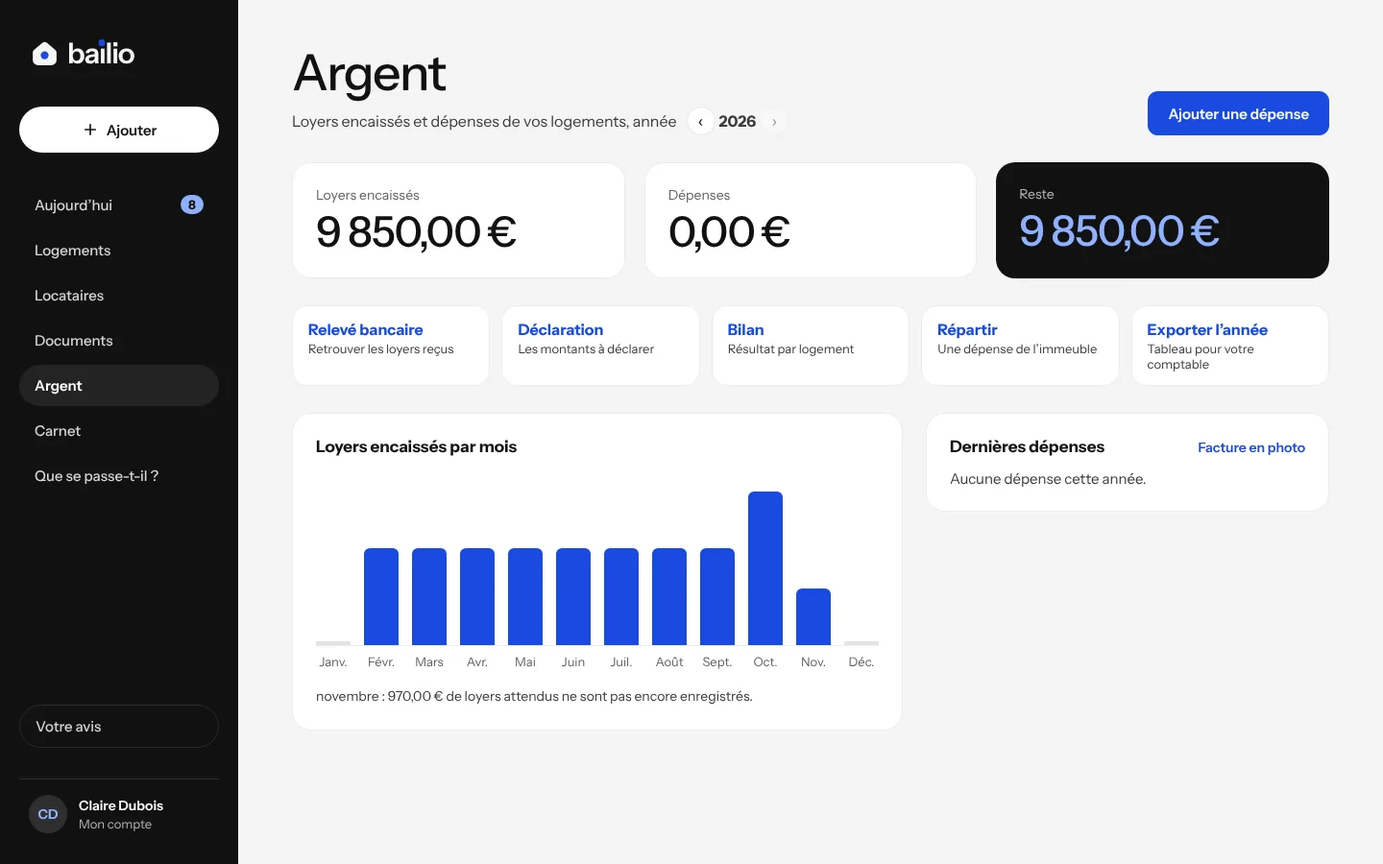
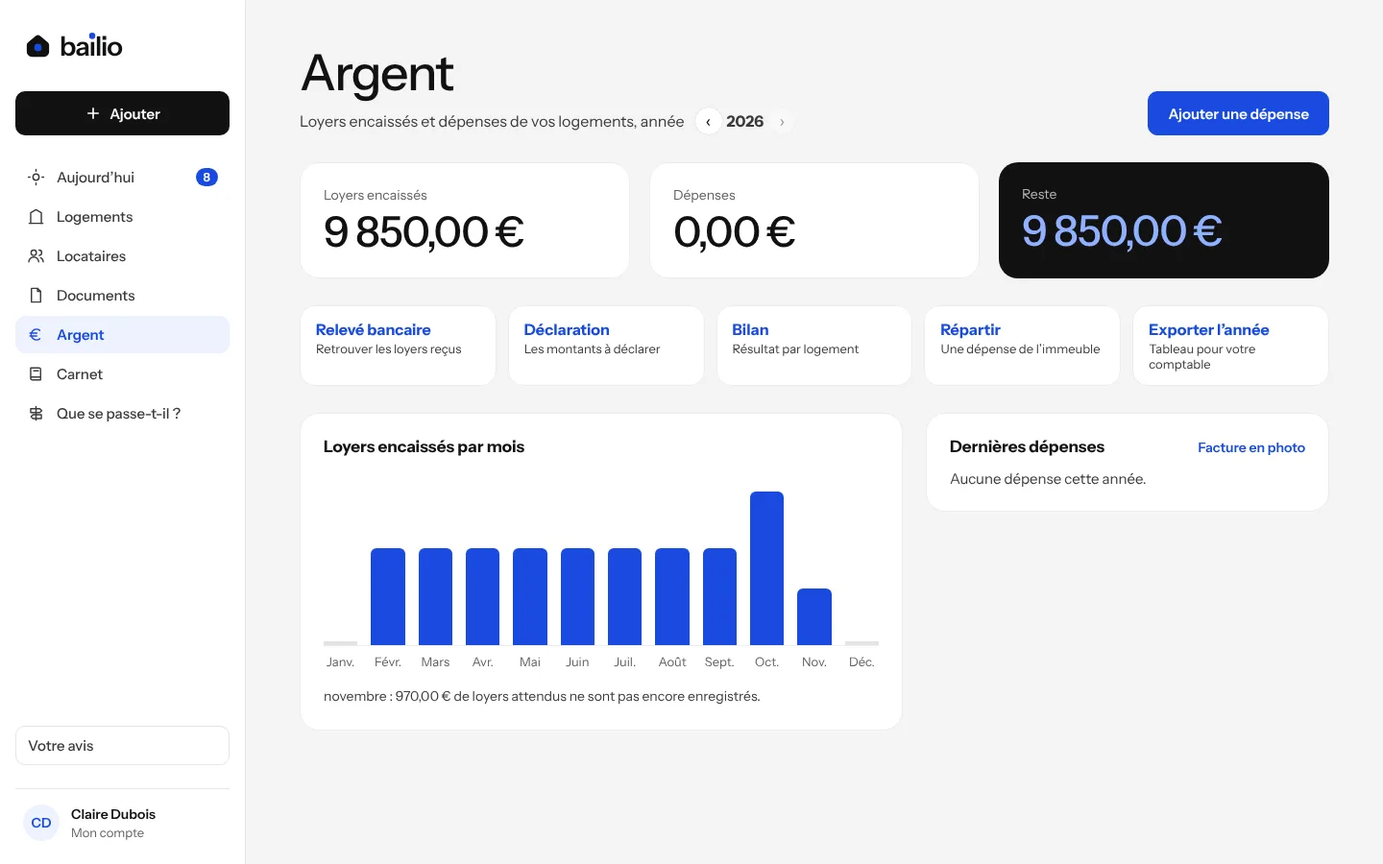
Espace du propriétaire : menu latéral clair à icônes, tuiles à pastilles, captures refaites
Claude-Session: https://claude.ai/code/session_01EKVDPdaB2g9b96r4iNnge6

diff --git a/client/src/content/fonctionnalites.ts b/client/src/content/fonctionnalites.ts
@@ -67,7 +67,7 @@ export const FEATURES: Feature[] = [
     lead: 'Notez le loyer reçu, ou déposez le relevé de votre banque : Bailio reconnaît les virements de vos locataires et envoie chaque quittance tout de suite.',
     img: 'quittances',
     alt: 'Partie « Loyers et quittances » d’un bail dans Bailio : loyer du mois payé, envoi automatique des quittances et loyers des mois passés.',
-    spot: { x: 22.8, y: 43.5, w: 43.5, h: 8.7, label: 'La quittance part dès que le loyer est noté reçu' },
+    spot: { x: 23.4, y: 43.1, w: 42.9, h: 8.6, label: 'La quittance part dès que le loyer est noté reçu' },
     steps: [
       { title: 'Un clic sur « Loyer reçu »', text: 'La quittance est faite, rangée avec le bail et envoyée par email si votre locataire l’a accepté. Un paiement partiel donne un reçu, jamais une quittance.' },
       { title: 'Votre relevé bancaire, rapproché', text: 'Téléchargez le fichier CSV ou OFX de votre banque et déposez-le : les loyers attendus sont retrouvés, vous cochez, c’est enregistré. Le fichier n’est pas conservé.', img: 'releve', alt: 'Page « Vos loyers reçus, en un clic » de Bailio : comment télécharger puis déposer le relevé bancaire.' },
@@ -92,7 +92,7 @@ export const FEATURES: Feature[] = [
     lead: 'Activez les relances une fois. Si le loyer n’est pas noté reçu, votre locataire reçoit une relance amiable, puis un second rappel, puis une mise en demeure. Vous recevez une copie de chaque envoi.',
     img: 'relances',
     alt: 'Bail avec un loyer en retard de 3 jours dans Bailio et l’interrupteur « Relancer automatiquement un loyer impayé » activé.',
-    spot: { x: 22.8, y: 66.2, w: 43.5, h: 11, label: 'Relance à J+3, second rappel à J+8, mise en demeure à J+15' },
+    spot: { x: 23.4, y: 65.7, w: 42.9, h: 10.8, label: 'Relance à J+3, second rappel à J+8, mise en demeure à J+15' },
     steps: [
       { title: 'Vous choisissez les jours', text: 'Par défaut 3, 8 et 15 jours après l’échéance, réglables. Chaque lettre reprend toute la somme due et les mois concernés.' },
       { title: 'Tout s’arrête dès le paiement', text: 'Le loyer est noté reçu, à la main ou depuis le relevé : plus aucune relance ne part. Une étape n’est jamais envoyée deux fois.' },
@@ -141,7 +141,7 @@ export const FEATURES: Feature[] = [
     lead: 'Bailio écrit les mentions obligatoires de l’annonce et vous donne un lien de candidature. Les candidats déposent leur dossier, vous comparez en un coup d’œil.',
     img: 'candidats',
     alt: 'Liste des candidats dans Bailio : dossier solide ou à compléter, avec les raisons.',
-    spot: { x: 21.1, y: 13.3, w: 50.4, h: 39.7, label: 'Classés sur les ressources, la garantie et les pièces' },
+    spot: { x: 21.7, y: 13.3, w: 49.9, h: 39.5, label: 'Classés sur les ressources, la garantie et les pièces' },
     steps: [
       { title: 'L’annonce, conforme', text: 'Loyer charges comprises, dépôt, surface, classes énergie et dépenses estimées : ajoutés tout seuls. Le texte se copie sur le site de votre choix.', img: 'annonce', alt: 'Page « Votre annonce » de Bailio : loyer, charges et conditions, avec l’aperçu de l’annonce.' },
       { title: 'Seulement les pièces autorisées', text: 'Vous choisissez dans la liste officielle. Chaque justificatif reçoit un filigrane « uniquement pour louer ce logement », contre la revente des dossiers.' },
@@ -187,7 +187,7 @@ export const FEATURES: Feature[] = [
     lead: 'Plus besoin de noter chaque virement à la main. Vous déposez le relevé du compte qui reçoit vos loyers, Bailio propose les loyers qu’il reconnaît, vous validez.',
     img: 'releve',
     alt: 'Page « Vos loyers reçus, en un clic » de Bailio : comment télécharger le relevé de sa banque puis le déposer, au format CSV ou OFX.',
-    spot: { x: 21.1, y: 44.9, w: 75, h: 22, label: 'CSV ou OFX, lu sur le serveur et jamais enregistré' },
+    spot: { x: 21.7, y: 47.4, w: 74.4, h: 21.6, label: 'CSV ou OFX, lu sur le serveur et jamais enregistré' },
     steps: [
       { title: 'Vous téléchargez le relevé', text: 'Depuis l’espace en ligne de votre banque, au format CSV ou OFX, sur le dernier mois ou plus. Bailio vous indique où le trouver.' },
       { title: 'Les loyers sont rapprochés', text: 'Un virement est associé à un loyer attendu quand le montant est juste à 1 € près, qu’il tombe de 20 jours avant à 45 jours après l’échéance, et que le libellé porte le nom du locataire ou de son garant.', img: 'quittances', alt: 'Partie « Loyers et quittances » d’un bail dans Bailio : loyer du mois payé et envoi automatique des quittances.' },
@@ -213,7 +213,7 @@ export const FEATURES: Feature[] = [
     lead: 'Chaque mois, Bailio additionne les loyers de tous vos logements, retire les crédits et les dépenses, et vous montre ce qu’il vous reste avant impôt. Ce qui demande votre attention vient en premier.',
     img: 'patrimoine',
     alt: 'Tableau de bord de Bailio : loyers et charges attendus chaque mois, ce qu’il reste, les logements à surveiller et la liste des trois logements.',
-    spot: { x: 21.1, y: 22.7, w: 75, h: 16.4, label: 'Loyers attendus et ce qu’il vous reste, chaque mois avant impôt' },
+    spot: { x: 21.7, y: 22.7, w: 74.4, h: 16.4, label: 'Loyers attendus et ce qu’il vous reste, chaque mois avant impôt' },
     steps: [
       { title: 'Un tableau de bord pour tout le patrimoine', text: 'Loyers et charges attendus, crédits et assurances, dépenses moyennes des 12 derniers mois, reste avant impôt, et rendement brut quand le prix d’achat est connu.' },
       { title: '« À surveiller », du plus urgent au moins urgent', text: 'Loyer en retard, logement interdit à la location, logement libre, diagnostic à refaire, interdiction liée au DPE dans les 4 ans, bail qui arrive à échéance.', img: 'logements', alt: 'Page « Vos logements » de Bailio : trois logements loués, un loyer en retard, et le lien vers le tableau de bord.' },
@@ -236,10 +236,10 @@ export const FEATURES: Feature[] = [
 
 /** Vitrine de /fonctionnalites : quatre écrans, une zone mise en avant chacun. */
 export const SHOWCASE: Array<{ id: string; tab: string; img: string; alt: string; spot: Spot }> = [
-  { id: 'jour', tab: 'Aujourd’hui', img: 'today', alt: 'Écran « Aujourd’hui » de Bailio : un loyer en retard avec la relance prête, une fin de bail, l’état des lieux à faire et les prochaines échéances.', spot: { x: 21.1, y: 36.8, w: 46.4, h: 22.2, label: 'Un loyer en retard : la relance est déjà rédigée' } },
-  { id: 'loyers', tab: 'Loyers', img: 'quittances', alt: 'Partie « Loyers et quittances » d’un bail : loyer du mois payé, envoi automatique des quittances et loyers des mois passés.', spot: { x: 22.8, y: 43.5, w: 43.5, h: 8.7, label: 'La quittance part dès que le loyer est noté reçu' } },
-  { id: 'relances', tab: 'Relances', img: 'relances', alt: 'Bail avec un loyer en retard de 3 jours et les relances automatiques activées.', spot: { x: 22.8, y: 66.2, w: 43.5, h: 11, label: 'Relance à J+3, second rappel à J+8, mise en demeure à J+15' } },
-  { id: 'bord', tab: 'Tableau de bord', img: 'patrimoine', alt: 'Tableau de bord de Bailio : loyers attendus chaque mois, ce qu’il reste, logements à surveiller.', spot: { x: 21.1, y: 42.8, w: 75, h: 16.9, label: 'Le loyer en retard et le bail à renouveler, en tête' } },
+  { id: 'jour', tab: 'Aujourd’hui', img: 'today', alt: 'Écran « Aujourd’hui » de Bailio : un loyer en retard avec la relance prête, une fin de bail, l’état des lieux à faire et les prochaines échéances.', spot: { x: 21.7, y: 38.7, w: 45.8, h: 22.1, label: 'Un loyer en retard : la relance est déjà rédigée' } },
+  { id: 'loyers', tab: 'Loyers', img: 'quittances', alt: 'Partie « Loyers et quittances » d’un bail : loyer du mois payé, envoi automatique des quittances et loyers des mois passés.', spot: { x: 23.4, y: 43.1, w: 42.9, h: 8.6, label: 'La quittance part dès que le loyer est noté reçu' } },
+  { id: 'relances', tab: 'Relances', img: 'relances', alt: 'Bail avec un loyer en retard de 3 jours et les relances automatiques activées.', spot: { x: 23.4, y: 65.7, w: 42.9, h: 10.8, label: 'Relance à J+3, second rappel à J+8, mise en demeure à J+15' } },
+  { id: 'bord', tab: 'Tableau de bord', img: 'patrimoine', alt: 'Tableau de bord de Bailio : loyers attendus chaque mois, ce qu’il reste, logements à surveiller.', spot: { x: 21.7, y: 42.6, w: 74.4, h: 16.6, label: 'Le loyer en retard et le bail à renouveler, en tête' } },
 ]
 
 /** Sections numérotées de /fonctionnalites : une capture, ce que Bailio fait, les pages détaillées. */

diff --git a/client/src/components/AppShell.tsx b/client/src/components/AppShell.tsx
@@ -92,36 +92,38 @@ function Sidebar({ taskCount, onAdd, onFeedback }: { taskCount: number | null; o
   const { user } = useAuth()
   const name = [user?.firstName, user?.lastName].filter(Boolean).join(' ') || user?.email || ''
   return (
-    <nav aria-label="Navigation principale" className="sidebar" style={{ width: 248, flexShrink: 0, background: BAI.night, display: 'flex', flexDirection: 'column', gap: 32, padding: '32px 20px', position: 'sticky', top: 0, height: '100vh', boxSizing: 'border-box' }}>
-      <div style={{ padding: '0 10px' }}>
-        <Logo size={30} onDark to="/espace" />
+    <nav aria-label="Navigation principale" className="sidebar" style={{ width: 256, flexShrink: 0, background: BAI.surface, borderRight: `1px solid ${BAI.border}`, display: 'flex', flexDirection: 'column', gap: 24, padding: '24px 16px', position: 'sticky', top: 0, height: '100vh', boxSizing: 'border-box' }}>
+      <div style={{ padding: '0 8px' }}>
+        <Logo size={28} to="/espace" />
       </div>
-      <button type="button" onClick={onAdd} style={{ display: 'flex', alignItems: 'center', justifyContent: 'center', gap: 8, height: 48, borderRadius: 999, background: BAI.surface, color: BAI.night, border: 'none', fontFamily: 'inherit', fontWeight: 600, fontSize: 15, cursor: 'pointer' }}>
+      <button type="button" className="side-add" onClick={onAdd} style={{ display: 'flex', alignItems: 'center', justifyContent: 'center', gap: 8, height: 46, borderRadius: BAI.radiusBtn, background: BAI.night, color: BAI.surface, border: 'none', fontFamily: 'inherit', fontWeight: 600, fontSize: 15, cursor: 'pointer' }}>
         <Plus />
         Ajouter
       </button>
-      <div style={{ display: 'flex', flexDirection: 'column', gap: 4 }}>
+      <div style={{ display: 'flex', flexDirection: 'column', gap: 2 }}>
         {NAV.map((n) => (
           <NavLink
             key={n.to}
             to={n.to}
             end={n.end}
-            style={({ isActive }) => ({ display: 'flex', alignItems: 'center', justifyContent: 'space-between', padding: '12px 16px', borderRadius: 999, textDecoration: 'none', fontSize: 15, fontWeight: isActive ? 600 : 500, background: isActive ? BAI.nightActive : 'transparent', color: isActive ? BAI.surface : BAI.onDarkNav })}
+            className="side-link"
+            style={({ isActive }) => ({ display: 'flex', alignItems: 'center', gap: 12, padding: '10px 12px', borderRadius: 10, textDecoration: 'none', fontSize: 15, fontWeight: isActive ? 600 : 500, background: isActive ? BAI.ownerLight : 'transparent', color: isActive ? BAI.owner : BAI.inkMid })}
           >
-            <span>{n.label}</span>
-            {n.end && taskCount ? <span style={{ background: BAI.accent, color: BAI.night, fontSize: 13, fontWeight: 700, padding: '2px 8px', borderRadius: 999 }}>{taskCount}</span> : null}
+            <n.icon size={19} />
+            <span style={{ flex: 1 }}>{n.label}</span>
+            {n.end && taskCount ? <span style={{ background: BAI.owner, color: BAI.surface, fontSize: 12.5, fontWeight: 600, padding: '2px 8px', borderRadius: 999 }}>{taskCount}</span> : null}
           </NavLink>
         ))}
       </div>
       <div style={{ flexGrow: 1 }} />
-      <button type="button" onClick={onFeedback} style={{ display: 'flex', alignItems: 'center', padding: '12px 16px', borderRadius: 999, background: 'transparent', border: `1px solid ${BAI.nightLine}`, color: BAI.onDarkNav, fontFamily: 'inherit', fontSize: 15, fontWeight: 500, cursor: 'pointer', textAlign: 'left' }}>
+      <button type="button" className="side-link" onClick={onFeedback} style={{ display: 'flex', alignItems: 'center', padding: '10px 12px', borderRadius: 10, background: 'transparent', border: `1px solid ${BAI.border}`, color: BAI.inkMid, fontFamily: 'inherit', fontSize: 15, fontWeight: 500, cursor: 'pointer', textAlign: 'left' }}>
         Votre avis
       </button>
-      <Link to="/espace/compte" style={{ display: 'flex', alignItems: 'center', gap: 12, padding: '16px 10px 0', borderTop: `1px solid ${BAI.nightSoft}`, textDecoration: 'none' }}>
-        <span style={{ width: 40, height: 40, borderRadius: 20, background: BAI.nightSoft, color: BAI.accent, display: 'flex', alignItems: 'center', justifyContent: 'center', fontWeight: 700, fontSize: 14, flexShrink: 0 }}>{initialsOf(name)}</span>
+      <Link to="/espace/compte" style={{ display: 'flex', alignItems: 'center', gap: 12, padding: '16px 8px 0', borderTop: `1px solid ${BAI.border}`, textDecoration: 'none' }}>
+        <span style={{ width: 38, height: 38, borderRadius: 19, background: BAI.ownerLight, color: BAI.owner, display: 'flex', alignItems: 'center', justifyContent: 'center', fontWeight: 600, fontSize: 14, flexShrink: 0 }}>{initialsOf(name)}</span>
         <span style={{ display: 'flex', flexDirection: 'column', gap: 2, minWidth: 0 }}>
-          <span style={{ color: BAI.surface, fontSize: 14, fontWeight: 600, overflow: 'hidden', textOverflow: 'ellipsis', whiteSpace: 'nowrap' }}>{name}</span>
-          <span style={{ color: BAI.onDarkMuted, fontSize: 13 }}>Mon compte</span>
+          <span style={{ color: BAI.ink, fontSize: 14, fontWeight: 600, overflow: 'hidden', textOverflow: 'ellipsis', whiteSpace: 'nowrap' }}>{name}</span>
+          <span style={{ color: BAI.inkSoft, fontSize: 13 }}>Mon compte</span>
         </span>
       </Link>
     </nav>

diff --git a/client/src/pages/Home.tsx b/client/src/pages/Home.tsx
@@ -138,12 +138,12 @@ function Check() {
 
 /** Visite animée du produit : vraies captures de l'application sur ordinateur (compte d'exemple), qui défilent seules. */
 const TOUR: TourStep[] = [
-  { id: 'decrire', tab: 'Décrire', img: 'tunnel', path: 'bailio.fr/commencer', alt: 'Écran « Votre logement est… » avec deux choix, Vide ou Meublé, étape 1 sur 5', spot: { x: 37.9, y: 28.3, w: 50, h: 26.1, label: 'Une question à la fois : Bailio remplit le reste' } },
-  { id: 'bail', tab: 'Le bail', img: 'bail', alt: 'Page d’un bail signé : locataire, adresse, dates, loyers reçus avec leurs quittances, et les actions du bail', spot: { x: 21.1, y: 8.5, w: 40, h: 11, label: 'Le contrat type officiel, signé en ligne' } },
-  { id: 'jour', tab: 'Aujourd’hui', img: 'today', alt: 'Écran « Bonjour Claire » : un loyer en retard avec la relance déjà rédigée, une fin de bail, l’état des lieux à faire et les prochaines échéances', spot: { x: 21.1, y: 36.8, w: 46.4, h: 22.2, label: 'Un loyer en retard : la relance est déjà rédigée' } },
-  { id: 'mois', tab: 'Chaque mois', img: 'relances', alt: 'Bail avec un loyer en retard : quittance par email et relance automatique d’un loyer impayé activées', spot: { x: 22.8, y: 66.2, w: 43.5, h: 11, label: 'Relance à J+3, second rappel à J+8, mise en demeure à J+15' } },
-  { id: 'candidats', tab: 'Candidats', img: 'candidats', alt: 'Liste des candidats : dossier solide ou à compléter, avec les raisons', spot: { x: 21.1, y: 13.3, w: 50.4, h: 39.7, label: 'Classés sur les ressources, la garantie et les pièces' } },
-  { id: 'bord', tab: 'Tableau de bord', img: 'patrimoine', alt: 'Tableau de bord : loyers attendus chaque mois, ce qu’il reste, logements à surveiller', spot: { x: 21.1, y: 42.8, w: 75, h: 16.9, label: 'Le loyer en retard et le bail à renouveler, en tête' } },
+  { id: 'decrire', tab: 'Décrire', img: 'tunnel', path: 'bailio.fr/commencer', alt: 'Écran « Votre logement est… » avec deux choix, Vide ou Meublé, étape 1 sur 5', spot: { x: 37.9, y: 28.3, w: 50, h: 25.6, label: 'Une question à la fois : Bailio remplit le reste' } },
+  { id: 'bail', tab: 'Le bail', img: 'bail', alt: 'Page d’un bail signé : locataire, adresse, dates, loyers reçus avec leurs quittances, et les actions du bail', spot: { x: 21.7, y: 8.5, w: 40, h: 11, label: 'Le contrat type officiel, signé en ligne' } },
+  { id: 'jour', tab: 'Aujourd’hui', img: 'today', alt: 'Écran « Bonjour Claire » : un loyer en retard avec la relance déjà rédigée, une fin de bail, l’état des lieux à faire et les prochaines échéances', spot: { x: 21.7, y: 38.7, w: 45.8, h: 22.1, label: 'Un loyer en retard : la relance est déjà rédigée' } },
+  { id: 'mois', tab: 'Chaque mois', img: 'relances', alt: 'Bail avec un loyer en retard : quittance par email et relance automatique d’un loyer impayé activées', spot: { x: 23.4, y: 65.7, w: 42.9, h: 10.8, label: 'Relance à J+3, second rappel à J+8, mise en demeure à J+15' } },
+  { id: 'candidats', tab: 'Candidats', img: 'candidats', alt: 'Liste des candidats : dossier solide ou à compléter, avec les raisons', spot: { x: 21.7, y: 13.3, w: 49.9, h: 39.5, label: 'Classés sur les ressources, la garantie et les pièces' } },
+  { id: 'bord', tab: 'Tableau de bord', img: 'patrimoine', alt: 'Tableau de bord : loyers attendus chaque mois, ce qu’il reste, logements à surveiller', spot: { x: 21.7, y: 42.6, w: 74.4, h: 16.6, label: 'Le loyer en retard et le bail à renouveler, en tête' } },
 ]
 
 /** Démarches d'un logement loué sur une année, que Bailio prépare ; la déclaration des revenus compte une fois. */

diff --git a/marketing/videos/demo/demo.html b/marketing/videos/demo/demo.html
@@ -24,15 +24,15 @@ const LOGO = (size, house = '#111111') => `<svg width="${size}" height="${size}"
 const SCREEN = 7
 // x, y, w, h : zone utile en % de la capture (1440 × 900)
 const STEPS = [
-  { img: 'today', url: 'bailio.fr/espace', cap: 'Chaque matin, ce qui est à faire, déjà préparé.', spot: { x: 21.1, y: 36.8, w: 46.4, h: 22.2 } },
-  { img: 'tunnel', url: 'bailio.fr/commencer', cap: 'Votre bail en quelques questions, sur le contrat type officiel.', spot: { x: 37.9, y: 28.3, w: 50, h: 26.1 } },
-  { img: 'bail', url: 'bailio.fr/espace/baux', cap: 'Vérifié avant la signature, signé en ligne.', spot: { x: 21.1, y: 8.5, w: 40, h: 11 } },
-  { img: 'quittances', url: 'bailio.fr/espace/baux', cap: 'Le loyer arrive : la quittance part toute seule.', spot: { x: 22.8, y: 43.5, w: 43.5, h: 8.7 } },
-  { img: 'relances', url: 'bailio.fr/espace/baux', cap: 'Un retard ? Relances à J+3, J+8 et J+15.', spot: { x: 22.8, y: 66.2, w: 43.5, h: 11 } },
+  { img: 'today', url: 'bailio.fr/espace', cap: 'Chaque matin, ce qui est à faire, déjà préparé.', spot: { x: 21.7, y: 38.7, w: 45.8, h: 22.1 } },
+  { img: 'tunnel', url: 'bailio.fr/commencer', cap: 'Votre bail en quelques questions, sur le contrat type officiel.', spot: { x: 37.9, y: 28.3, w: 50, h: 25.6 } },
+  { img: 'bail', url: 'bailio.fr/espace/baux', cap: 'Vérifié avant la signature, signé en ligne.', spot: { x: 21.7, y: 8.5, w: 40, h: 11 } },
+  { img: 'quittances', url: 'bailio.fr/espace/baux', cap: 'Le loyer arrive : la quittance part toute seule.', spot: { x: 23.4, y: 43.1, w: 42.9, h: 8.6 } },
+  { img: 'relances', url: 'bailio.fr/espace/baux', cap: 'Un retard ? Relances à J+3, J+8 et J+15.', spot: { x: 23.4, y: 65.7, w: 42.9, h: 10.8 } },
   { img: 'edl', url: 'bailio.fr/edl', cap: 'L’état des lieux sur téléphone, pièce par pièce.', spot: { x: 31.9, y: 20.3, w: 36.1, h: 18.8 } },
-  { img: 'candidats', url: 'bailio.fr/espace/logements', cap: 'Les candidats classés, leurs pièces protégées.', spot: { x: 21.1, y: 13.3, w: 50.4, h: 39.7 } },
-  { img: 'impots', url: 'bailio.fr/espace/argent/declaration', cap: 'Votre déclaration : les cases à recopier.', spot: { x: 21.1, y: 36.7, w: 75, h: 35.5 } },
-  { img: 'patrimoine', url: 'bailio.fr/espace/patrimoine', cap: 'Tous vos logements, un seul tableau de bord.', spot: { x: 21.1, y: 22.7, w: 75, h: 16.4 } },
+  { img: 'candidats', url: 'bailio.fr/espace/logements', cap: 'Les candidats classés, leurs pièces protégées.', spot: { x: 21.7, y: 13.3, w: 49.9, h: 39.5 } },
+  { img: 'impots', url: 'bailio.fr/espace/argent/declaration', cap: 'Votre déclaration : les cases à recopier.', spot: { x: 21.7, y: 36.7, w: 74.4, h: 35.5 } },
+  { img: 'patrimoine', url: 'bailio.fr/espace/patrimoine', cap: 'Tous vos logements, un seul tableau de bord.', spot: { x: 21.7, y: 22.7, w: 74.4, h: 16.4 } },
 ]
 const INTRO = 4.5, OUTRO = 6
 window.DURATION = INTRO + STEPS.length * SCREEN + OUTRO

diff --git a/client/src/pages/espace/Aujourdhui.tsx b/client/src/pages/espace/Aujourdhui.tsx
@@ -4,7 +4,7 @@ import { BAI } from '../../constants/bailio-tokens'
 import { AppShell, useSpace } from '../../components/AppShell'
 import { display } from '../../components/ui'
 import { Btn, Card, LoadError, Loader, Pill, TextLink, toneColor, useLoad, useToast, useConfirm } from '../../components/kit'
-import { Camera, Check, Euro, Home, Mail, Pencil, Plus, Upload } from '../../components/Icons'
+import { Camera, Check, Euro, Home, Mail, Pencil, People, Plus, Upload } from '../../components/Icons'
 import { Onboarding } from '../../components/Onboarding'
 import { api } from '../../lib/api'
 import { dayTitle, eurosCents, monthName, plural } from '../../lib/format'
@@ -176,10 +176,15 @@ function Tiles({ data }: { data: TodayView }) {
   return (
     <nav aria-label="Chiffres du mois" className="today-tiles">
       {tiles.map((t) => (
-        <Link key={t.key} to={t.to} className="tap today-tile" style={{ textDecoration: 'none', color: BAI.ink, background: BAI.surface, border: `1px solid ${BAI.divider}`, borderRadius: 18, padding: '16px 20px', display: 'flex', flexDirection: 'column', gap: 2, minWidth: 0 }}>
-          <span style={{ fontSize: 13, color: BAI.inkSoft }}>{t.label}</span>
-          <span style={{ fontSize: 'clamp(19px, 2.4vw, 24px)', fontWeight: 700, color: t.tone ? toneColor(t.tone) : BAI.ink, overflowWrap: 'anywhere' }}>{t.value}</span>
-          {t.sub ? <span style={{ fontSize: 13, color: BAI.inkMid }}>{t.sub}</span> : null}
+        <Link key={t.key} to={t.to} className="tap today-tile" style={{ textDecoration: 'none', color: BAI.ink, background: BAI.surface, border: `1px solid ${BAI.border}`, borderRadius: 16, padding: '16px 18px', display: 'flex', alignItems: 'flex-start', gap: 14, minWidth: 0 }}>
+          <span aria-hidden style={{ width: 40, height: 40, borderRadius: 12, flexShrink: 0, display: 'flex', alignItems: 'center', justifyContent: 'center', background: t.tone === 'error' ? BAI.errorLight : t.tone === 'green' ? BAI.greenLight : BAI.ownerLight, color: t.tone === 'error' ? BAI.error : t.tone === 'green' ? BAI.green : BAI.owner }}>
+            {t.key === 'candidates' ? <People size={20} /> : t.key === 'deposit' ? <Home size={20} /> : <Euro size={20} />}
+          </span>
+          <span style={{ display: 'flex', flexDirection: 'column', gap: 2, minWidth: 0 }}>
+            <span style={{ fontSize: 13, color: BAI.inkSoft }}>{t.label}</span>
+            <span style={{ fontSize: 'clamp(18px, 2.2vw, 22px)', fontWeight: 600, letterSpacing: '-0.02em', color: t.tone ? toneColor(t.tone) : BAI.ink, overflowWrap: 'anywhere' }}>{t.value}</span>
+            {t.sub ? <span style={{ fontSize: 13, color: BAI.inkMid }}>{t.sub}</span> : null}
+          </span>
         </Link>
       ))}
     </nav>

diff --git a/client/src/styles.css b/client/src/styles.css
@@ -196,7 +196,7 @@ button:not(:disabled):active { transform: scale(.98); }
 }
 
 /* « Aujourd'hui » : tuiles du mois, puis actions à gauche et raccourcis + agenda à droite dès 1024 px. */
-.today-tiles { display: grid; grid-template-columns: repeat(auto-fit, minmax(150px, 1fr)); gap: 14px; }
+.today-tiles { display: grid; grid-template-columns: repeat(auto-fit, minmax(210px, 1fr)); gap: 14px; }
 .today-grid { display: flex; flex-direction: column; gap: 24px; }
 .today-main { display: flex; flex-direction: column; min-width: 0; }
 .today-side { display: flex; flex-direction: column; gap: 20px; min-width: 0; }
@@ -207,3 +207,7 @@ button:not(:disabled):active { transform: scale(.98); }
 @media (max-width: 339px) {
   .today-tiles { grid-template-columns: minmax(0, 1fr); }
 }
+
+/* Menu latéral clair de l'espace : survol discret */
+.side-link:not(.active):hover { background: #f4f4f4 !important; }
+.side-add:hover { background: #2e2e2e !important; }

diff --git a/CLAUDE.md b/CLAUDE.md
@@ -32,6 +32,7 @@
 - Toute couleur vient de `BAI` (`client/src/constants/bailio-tokens.ts`). Aucune couleur hexadécimale dans les composants.
 - Titres et texte : Instrument Sans (`@fontsource-variable/instrument-sans`, servie par le site), titres en 500 (`display()`, `components/ui.tsx`), jamais 700 ni 800 ; la seconde moitié d'un titre en gris avec `<em>` (une phrase à elle seule, sans italique), une fois par écran. Pas d'étiquette en capitales au-dessus des titres, pas de numérotation 01/02 hors vraie suite, phrases de moins de 15 mots dans les zones clés.
 - Palette « Feuille et stylo » (`white-link-blue` de la skill taste) : feuille blanche `BAI.surface`, fond de l'espace `BAI.bg` gris très clair, encre `BAI.ink`, aplat sombre `BAI.night`, **un seul bleu « stylo » (`BAI.owner` = `BAI.cta`) pour les liens et le bouton de l'action principale, texte blanc, seul bouton plein bleu de l'écran** ; autres boutons en contour (encre, bord `borderStrong`) ou noirs ; `BAI.accent` bleu clair seulement sur fond sombre ; payé `BAI.green`. Pas de violet, pas de dégradé, pas d'ombre lourde ; le rouge ne sert qu'aux erreurs.
+- Espace du propriétaire (`components/AppShell.tsx`) : menu latéral clair (fond `BAI.surface`, trait `BAI.border`, une icône par entrée, entrée en cours sur `BAI.ownerLight` en bleu, bouton « Ajouter » noir) ; tuiles d'« Aujourd'hui » avec pastille à icône (bleue, verte, rouge selon l'état). L'aplat sombre ne sert plus au menu.
 - Module « page de bail » (coin replié) : `.fold`, `.fold--lg`, `.fold--ear` dans `styles.css` ; photo dans un module arrondi, bloc de couleur posé en bas, jamais en haut.
 - Une seule action principale par écran (variante `primary` des boutons, bleu). Boutons rayon 10 px (`BAI.radiusBtn`), étiquettes en pilule. Champs de 60 px de haut, rayon 12 px ; cartes rayon 20 px.
 - Logo (`components/Logo.tsx`, `docs/design/direction-artistique.md`) : maison à l'encre à la fenêtre ronde bleue, puis « bailio » en Instrument Sans 600 (la même fenêtre en point du i). En couleurs sur fond clair, `onDark` sur un aplat sombre, jamais en couleurs sur un aplat de couleur. Favicon et icône de téléphone (`client/public/`) à garder identiques.

diff --git a/docs/design/direction-artistique.md b/docs/design/direction-artistique.md
@@ -18,7 +18,7 @@ niveau visé est celui de figma.com et x.ai (skill taste) : on dit ce que c'est,
 | Fond de l'espace | `bg` | `#f4f4f4` |
 | Encre | `ink` | `#111111` |
 | Texte secondaire | `inkSoft` | `#5f5f5f` |
-| Aplat sombre | `night` | `#111111` (menu latéral, bande inversée, pied de page) |
+| Aplat sombre | `night` | `#111111` (bande inversée, pied de page, bouton « Ajouter ») |
 | Bleu stylo | `owner`, `cta`, `accentInk` | `#1a4be0`, texte blanc dessus ; survol `#143bb3` |
 | Bleu sur fond sombre | `accent` | `#8fb0ff` |
 | Payé | `green` | `#1a7f45` |
@@ -68,6 +68,12 @@ Sur un logiciel, la skill demande de montrer le produit lui-même, jamais une il
 - un fil de ce que Bailio vient de faire, une ligne de plus toutes les 2,8 s, dit « Exemple ».
 
 Le titre nomme la catégorie et l'acheteur, puis un fait concret (le prix) sur le premier écran.
+
+## L'espace du propriétaire
+
+- **Menu latéral clair** (`components/AppShell.tsx`) : fond blanc, trait gris à droite, une icône par entrée. L'entrée en cours est sur fond bleu très pâle avec un texte bleu. Le bouton « Ajouter » est noir.
+- **Tuiles du mois** : une pastille à icône par chiffre, bleue, verte si tout est à jour, rouge pour un retard.
+- **Aplat sombre** : réservé au pied de page public et aux bandes inversées. Il ne sert plus au menu.
 
 ## Mouvement
 

diff --git a/PROGRESS.md b/PROGRESS.md
@@ -13,6 +13,8 @@ Plan : `PLAN.md`. Rien n'est envoyé sur GitHub ni mis en ligne sans l'accord d'
 | L6 Fonctionnalités en plus | Fait | Fil d'actualité, prestataires, aide au départ du locataire ; emprunt déjà relié à la rentabilité |
 | Captures et vidéo | Fait | `marketing/captures/fonctionnalites.mjs` refait les captures ; vidéo rendue à nouveau |
 | Revue finale | Fait | Étiquette au-dessus du titre de `/fonctionnalites` retirée |
+| Direction « Feuille et stylo » | Fait | « Maison habitée » refusée par Enzo ; palette `white-link-blue` et Instrument Sans de la skill taste, choisies par Enzo ; vrai produit en haut de l'accueil |
+| Habillage de l'espace | Fait | Menu latéral clair à icônes, tuiles à pastilles ; captures et vidéo refaites |
 
 ## Vérifications
 
